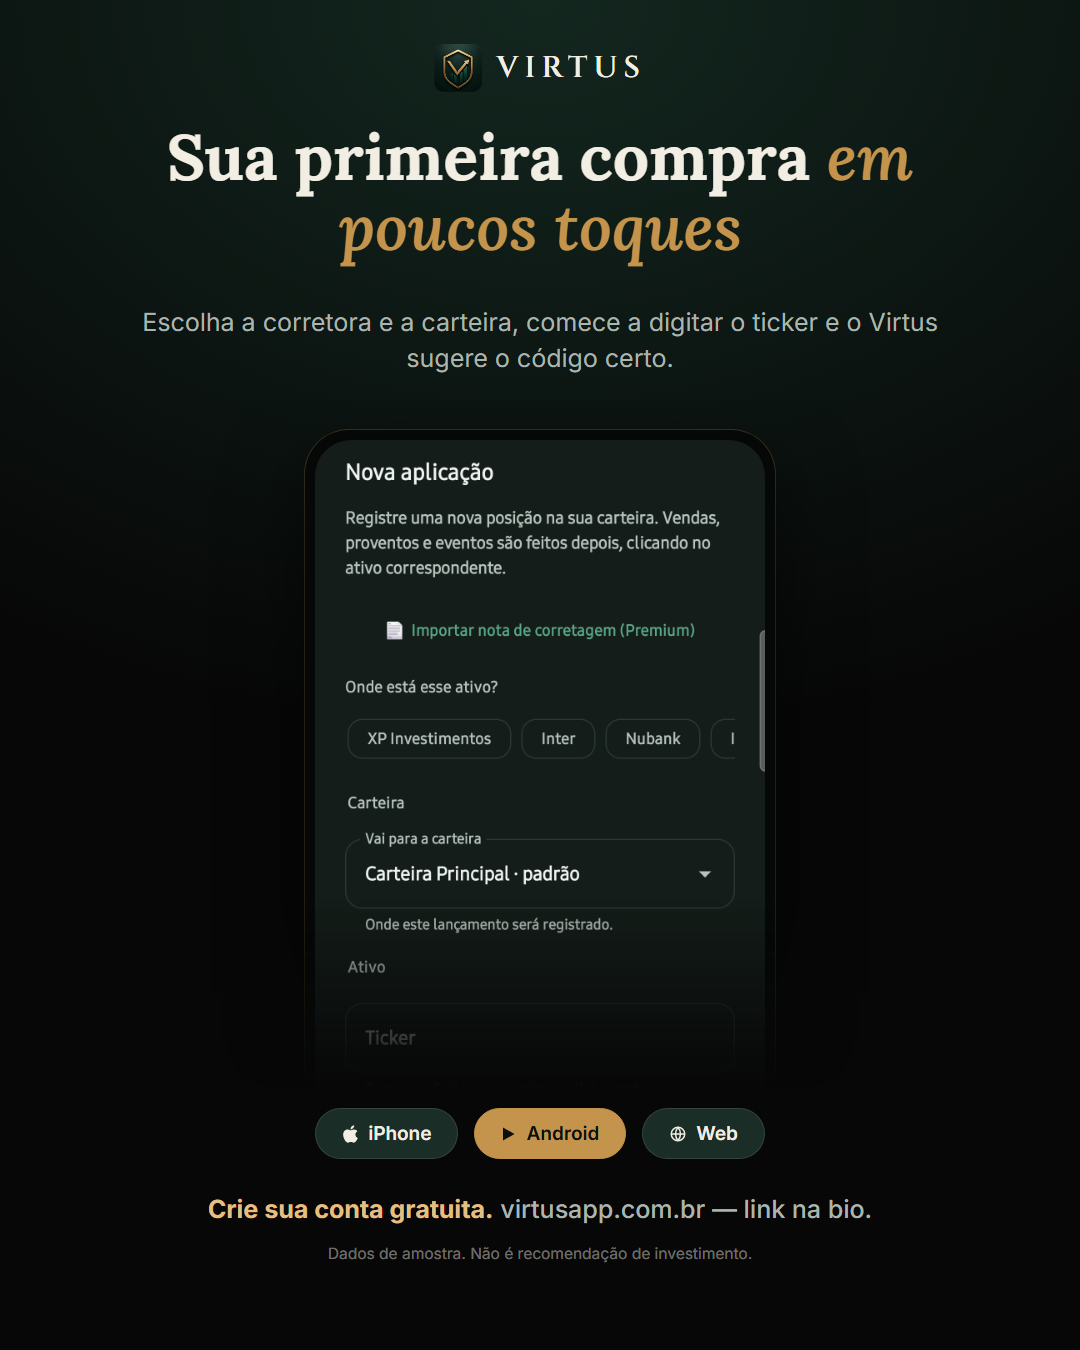
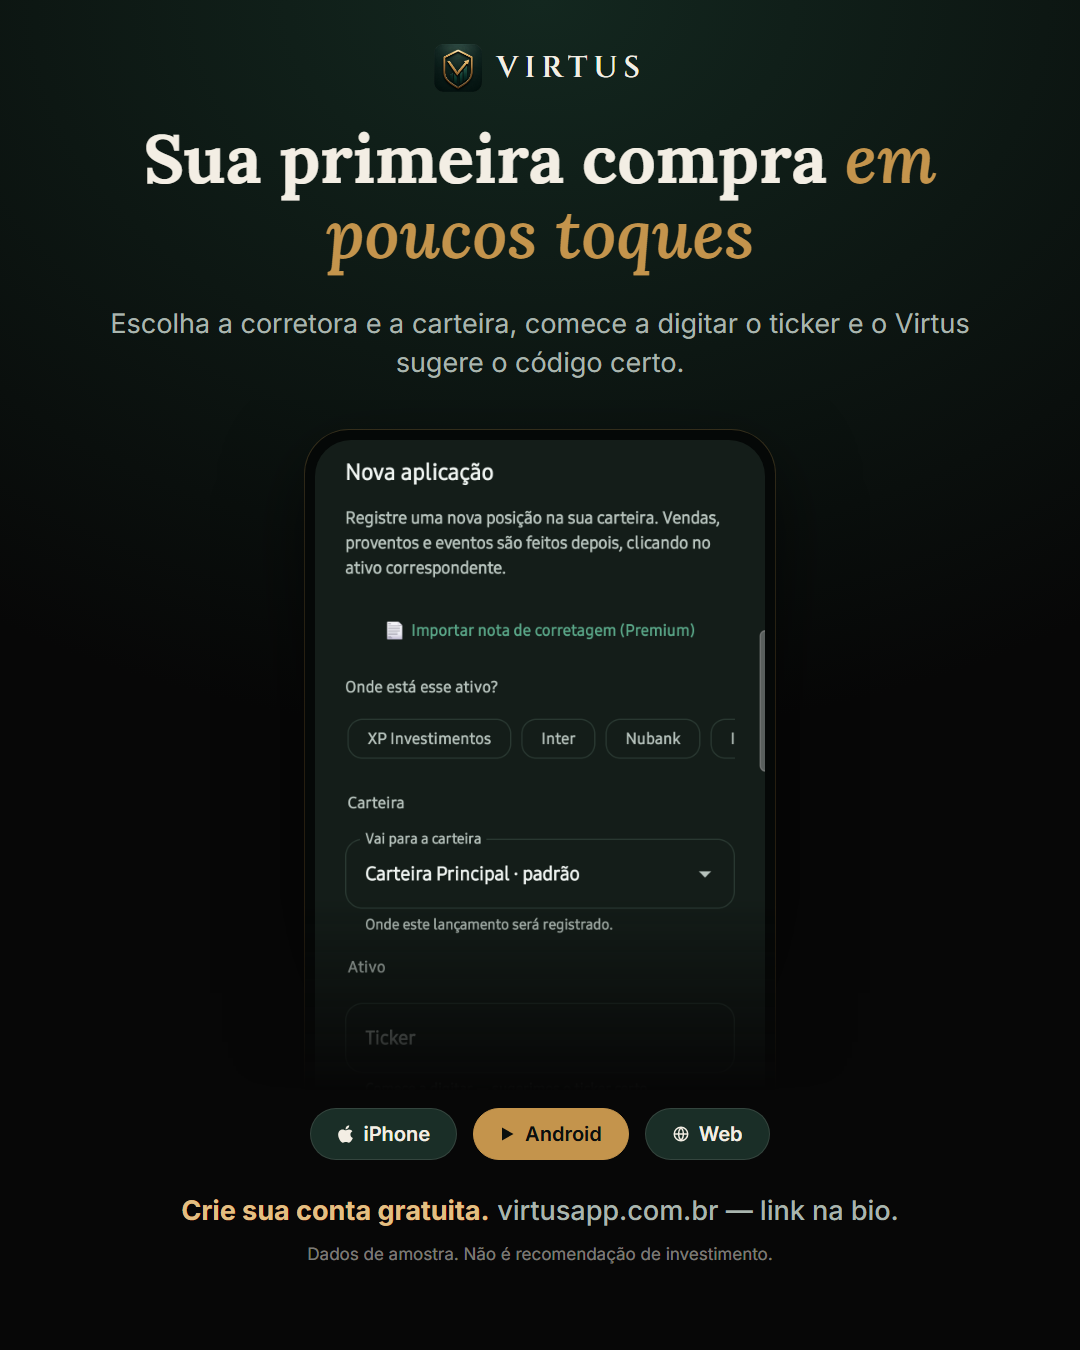
social: lote 09-16/10 (8 posts), fontes um pouco maiores, occlude_box no photo-screen

Changed region(s): [[0.0917, 0.0933, 0.8861, 0.28], [0.1528, 0.8089, 0.825, 0.9333]]

diff --git a/social/compose/build.py b/social/compose/build.py
@@ -47,7 +47,7 @@ BASE_CSS = themed('''*{margin:0;padding:0;box-sizing:border-box}html,body{width:
 .urlbar{margin-left:14px;flex:1;height:26px;border-radius:13px;background:#fff;border:1px solid #E2E8F0;font-size:13px;color:#64748B;display:flex;align-items:center;padding:0 14px}
 .shot{overflow:hidden;position:relative;line-height:0}.shot img{display:block}
 .tablet{border-radius:30px;background:#050807;padding:14px;box-shadow:0 30px 80px rgba(0,0,0,.55),0 0 0 1px rgba(196,148,76,.25);position:absolute}.tablet .scr{border-radius:18px;overflow:hidden;line-height:0;background:#fff}.tablet .scr img{width:100%;display:block}
-.pills{display:flex;justify-content:center;gap:16px}.pill{display:inline-flex;align-items:center;gap:9px;border-radius:999px;padding:13px 26px;font-size:19px;font-weight:600;background:__PILL_BG__;color:__TEXT__;border:1px solid rgba(243,238,228,.12)}.pill.on{background:__ACCENT__;color:#0B0F0D;border-color:__ACCENT__}
+.pills{display:flex;justify-content:center;gap:16px}.pill{display:inline-flex;align-items:center;gap:9px;border-radius:999px;padding:13px 26px;font-size:20px;font-weight:600;background:__PILL_BG__;color:__TEXT__;border:1px solid rgba(243,238,228,.12)}.pill.on{background:__ACCENT__;color:#0B0F0D;border-color:__ACCENT__}
 ''')
 
 def fileurl(p):  # Windows-safe file:// URL
@@ -100,13 +100,13 @@ def footer():
 APP_CSS = BASE_CSS + themed('''
 .stage{background:radial-gradient(120% 70% at 50% 0%,__BG_TOP__ 0%,__BG_BOTTOM__ 78%);color:__TEXT__}
 .top{position:absolute;top:44px;left:0;right:0;display:flex;justify-content:center}
-.headline{position:absolute;top:122px;left:70px;right:70px;text-align:center;font-family:'Lora',serif;font-weight:700;font-size:64px;line-height:1.1;color:__TEXT__}
+.headline{position:absolute;top:122px;left:70px;right:70px;text-align:center;font-family:'Lora',serif;font-weight:700;font-size:68px;line-height:1.1;color:__TEXT__}
 .headline em{font-style:italic;color:__ACCENT__;font-weight:600}
-.sub{position:absolute;top:304px;left:120px;right:120px;text-align:center;font-size:25px;line-height:1.45;color:__MUTED__}
+.sub{position:absolute;top:304px;left:110px;right:110px;text-align:center;font-size:27px;line-height:1.45;color:__MUTED__}
 .hero{position:absolute;top:400px;left:0;right:0;height:690px;-webkit-mask-image:linear-gradient(180deg,#000 0,#000 __FADE__%,transparent 100%);mask-image:linear-gradient(180deg,#000 0,#000 __FADE__%,transparent 100%)}
 .pillrow{position:absolute;top:1108px;left:0;right:0}
-.foot{position:absolute;top:1194px;left:0;right:0;text-align:center;font-size:25px}.foot b{color:__ACCENT_LIGHT__;font-weight:700}.foot span{color:__MUTED__;font-weight:500}
-.fine{position:absolute;top:1244px;left:0;right:0;text-align:center;font-size:15.5px;color:rgba(243,238,228,.45)}
+.foot{position:absolute;top:1194px;left:0;right:0;text-align:center;font-size:27px}.foot b{color:__ACCENT_LIGHT__;font-weight:700}.foot span{color:__MUTED__;font-weight:500}
+.fine{position:absolute;top:1244px;left:0;right:0;text-align:center;font-size:17px;color:rgba(243,238,228,.5)}
 ''')
 
 def render_app(p):
@@ -133,12 +133,12 @@ LIFE_CSS = BASE_CSS + themed('''
 .bg{position:absolute;inset:0}.bg img{width:100%;height:100%;object-fit:cover;display:block}
 .shade{position:absolute;inset:0;background:linear-gradient(180deg,rgba(5,8,7,.20) 0%,rgba(5,8,7,0) 28%,rgba(7,16,12,.25) 52%,rgba(7,16,12,.88) 78%,rgba(5,8,7,.95) 100%)}
 .top{position:absolute;top:44px;left:56px}.top .lockup{background:rgba(7,16,12,.45);backdrop-filter:blur(14px);-webkit-backdrop-filter:blur(14px);border:1px solid rgba(227,191,130,.35);border-radius:999px;padding:8px 22px 8px 10px}.badge{width:40px;height:40px}.bp{font-size:24px;letter-spacing:5px}
-.kicker{position:absolute;left:56px;top:__KICK__px;font-size:15px;font-weight:700;letter-spacing:2px;text-transform:uppercase;color:__ACCENT_LIGHT__}
-.headline{position:absolute;left:56px;top:__HEAD__px;width:__HW__px;font-family:'Lora',serif;font-weight:700;font-size:54px;line-height:1.12;color:#fff;text-shadow:0 2px 24px rgba(0,0,0,.35)}
+.kicker{position:absolute;left:56px;top:__KICK__px;font-size:16.5px;font-weight:700;letter-spacing:2px;text-transform:uppercase;color:__ACCENT_LIGHT__}
+.headline{position:absolute;left:56px;top:__HEAD__px;width:__HW__px;font-family:'Lora',serif;font-weight:700;font-size:58px;line-height:1.12;color:#fff;text-shadow:0 2px 24px rgba(0,0,0,.35)}
 .headline em{font-style:italic;color:__ACCENT_LIGHT__;font-weight:600}
-.sub{position:absolute;left:56px;top:__SUB__px;width:__HW__px;font-size:23px;line-height:1.45;color:rgba(255,255,255,.86)}
-.foot{position:absolute;left:56px;bottom:84px;width:620px;font-size:21px;line-height:1.4;color:#fff;z-index:2}.foot b{font-weight:700;color:__ACCENT_LIGHT__}.foot span{color:rgba(255,255,255,.72);font-weight:500}
-.fine{position:absolute;left:56px;bottom:40px;font-size:14px;color:rgba(255,255,255,.55)}
+.sub{position:absolute;left:56px;top:__SUB__px;width:__HW__px;font-size:25px;line-height:1.45;color:rgba(255,255,255,.86)}
+.foot{position:absolute;left:56px;bottom:84px;width:620px;font-size:23px;line-height:1.4;color:#fff;z-index:2}.foot b{font-weight:700;color:__ACCENT_LIGHT__}.foot span{color:rgba(255,255,255,.72);font-weight:500}
+.fine{position:absolute;left:56px;bottom:40px;font-size:15.5px;color:rgba(255,255,255,.55)}
 .pills{position:absolute;right:56px;top:52px;gap:10px}.pill{padding:10px 18px;font-size:16px;background:rgba(7,16,12,.45);backdrop-filter:blur(14px);-webkit-backdrop-filter:blur(14px);border:1px solid rgba(255,255,255,.22);color:#fff}.pill.on{background:__ACCENT__;border-color:__ACCENT__;color:#0B0F0D}
 ''')
 

diff --git a/social/compose/photo-screen.py b/social/compose/photo-screen.py
@@ -10,7 +10,8 @@ photos/screens.json: { "<out-id>": { "photo": "<id da foto>", "shot": "<arquivo 
     "radius": 0.12 (canto arredondado, fração da largura do print), "status_bar": 0 (px pretos no topo do print),
     "crop": [x0,y0,x1,y1] (recorte final da foto, px originais), "shade": 0.93 (brilho do print),
     "blur": 0 (px de desfoque, para casar com a nitidez da foto),
-    "occlude": false (true = devolve os pixels da foto que não parecem tela: manga, dedos na frente) } }
+    "occlude": false (true = devolve os pixels da foto que não parecem tela: manga, dedos na frente),
+    "occlude_box": [x0,y0,x1,y1] (opcional: só procura oclusão dentro desta caixa — evita trazer de volta imagens escuras da tela antiga) } }
 Saída: photos/<out-id>.jpg — referenciar no posts.json com "photo": "<out-id>".
 """
 import json, os, sys
@@ -59,10 +60,13 @@ def make(out_id, e):
     if e.get('occlude'):
         # dentro do quad, o que é claro e pouco saturado é tela; o resto (braço, mão) fica na frente
         hsv = np.asarray(photo.convert('HSV')).astype(float) / 255
-        occ = ~((hsv[..., 2] > 0.55) & (hsv[..., 1] < 0.35))
+        occ = ~((hsv[..., 2] > e.get('screen_v', 0.55)) & (hsv[..., 1] < e.get('screen_sat', 0.35)))  # pele clara pede screen_sat menor
         occ = Image.fromarray((occ * 255).astype('uint8'))
         k = e.get('occlude_min', 25)  # abertura morfológica: some com ícones soltos da tela antiga, fica braço/mão
         occ = occ.filter(ImageFilter.MinFilter(k)).filter(ImageFilter.MaxFilter(k)).filter(ImageFilter.MaxFilter(5))
+        if e.get('occlude_box'):
+            box = Image.new('L', photo.size, 0); ImageDraw.Draw(box).rectangle(e['occlude_box'], fill=255)
+            occ = Image.fromarray(np.minimum(np.asarray(occ), np.asarray(box)))
         keep = Image.fromarray(255 - np.asarray(occ)).filter(ImageFilter.GaussianBlur(2))
         layer.putalpha(Image.fromarray((np.asarray(layer.getchannel('A')).astype(float) * np.asarray(keep) / 255).astype('uint8')))
     warped.alpha_composite(layer)
